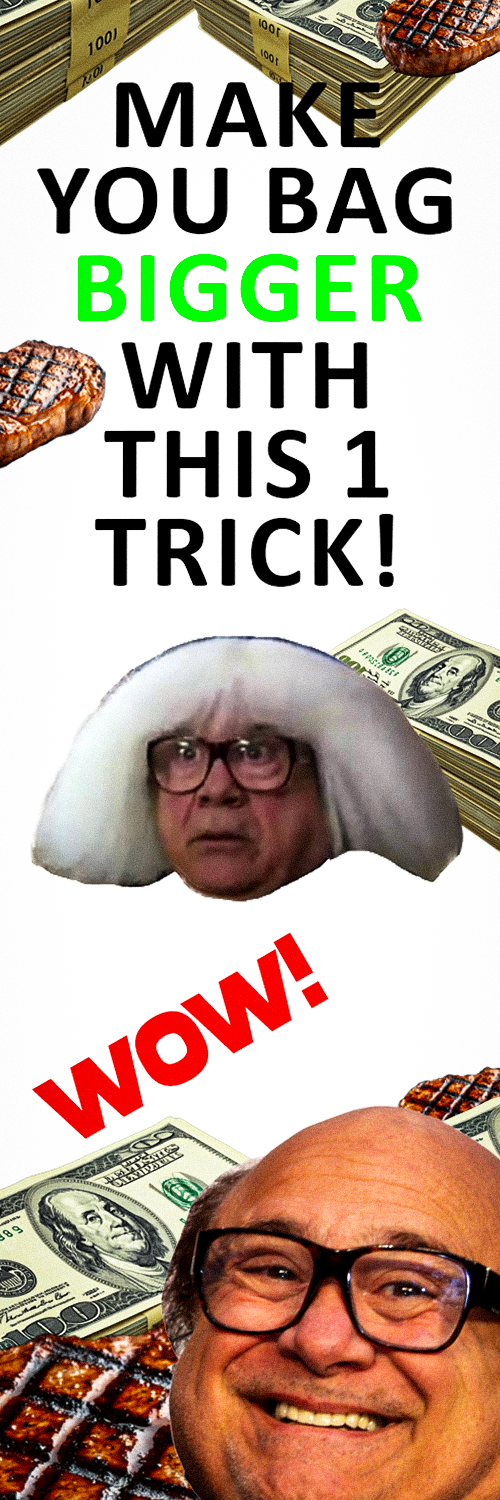
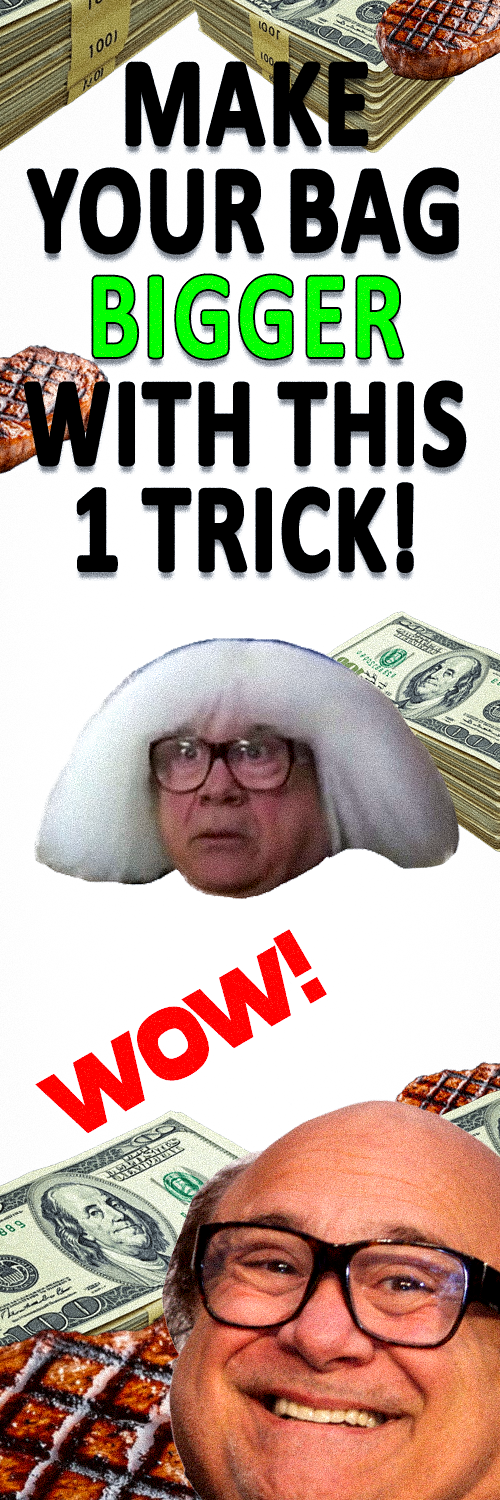
fix: improve LiveChat error handling and graceful color field handling
- Add error handling to send() function with console logging
- Make color field optional in API to handle missing DB column gracefully
- Enter key and username colors were already working correctly

diff --git a/src/components/LiveChat.js b/src/components/LiveChat.js
@@ -98,7 +98,7 @@ export default function LiveChat({ windowMode = false }) {
     setText("");
 
     try {
-      await fetch("/api/livechat", {
+      const res = await fetch("/api/livechat", {
         method: "POST",
         headers: { "content-type": "application/json" },
         body: JSON.stringify({
@@ -108,12 +108,18 @@ export default function LiveChat({ windowMode = false }) {
         }),
       });
 
-      if (!colorLocked || displayName !== lockedUsername) {
-        setColorLocked(true);
-        setLockedUsername(displayName);
+      if (!res.ok) {
+        console.error("Failed to send message:", await res.text());
+      } else {
+        if (!colorLocked || displayName !== lockedUsername) {
+          setColorLocked(true);
+          setLockedUsername(displayName);
+        }
       }
 
       await fetchMessages();
+    } catch (err) {
+      console.error("Send error:", err);
     } finally {
       setSending(false);
     }

diff --git a/src/app/api/livechat/route.js b/src/app/api/livechat/route.js
@@ -42,13 +42,20 @@ export async function POST(req) {
   }
 
   try {
+    // Build data object - color field may not exist in older schemas
+    const data = {
+      nickname: username || "anon",
+      message,
+      wallet,
+    };
+    
+    // Only add color if it's provided (graceful handling if column doesn't exist)
+    if (color) {
+      data.color = color;
+    }
+
     const entry = await prisma.chatMessage.create({
-      data: {
-        nickname: username || "anon",
-        message,
-        wallet,
-        color,
-      },
+      data,
     });
 
     return NextResponse.json({
